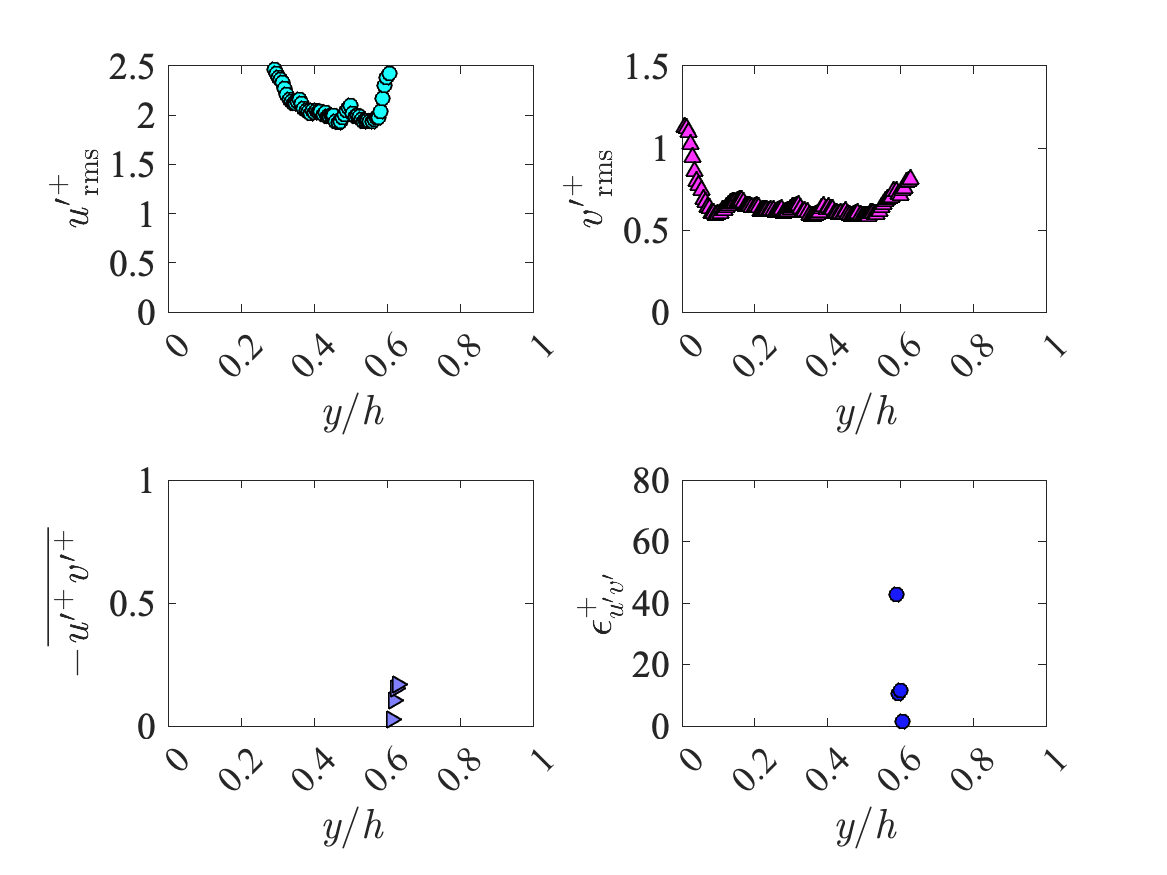
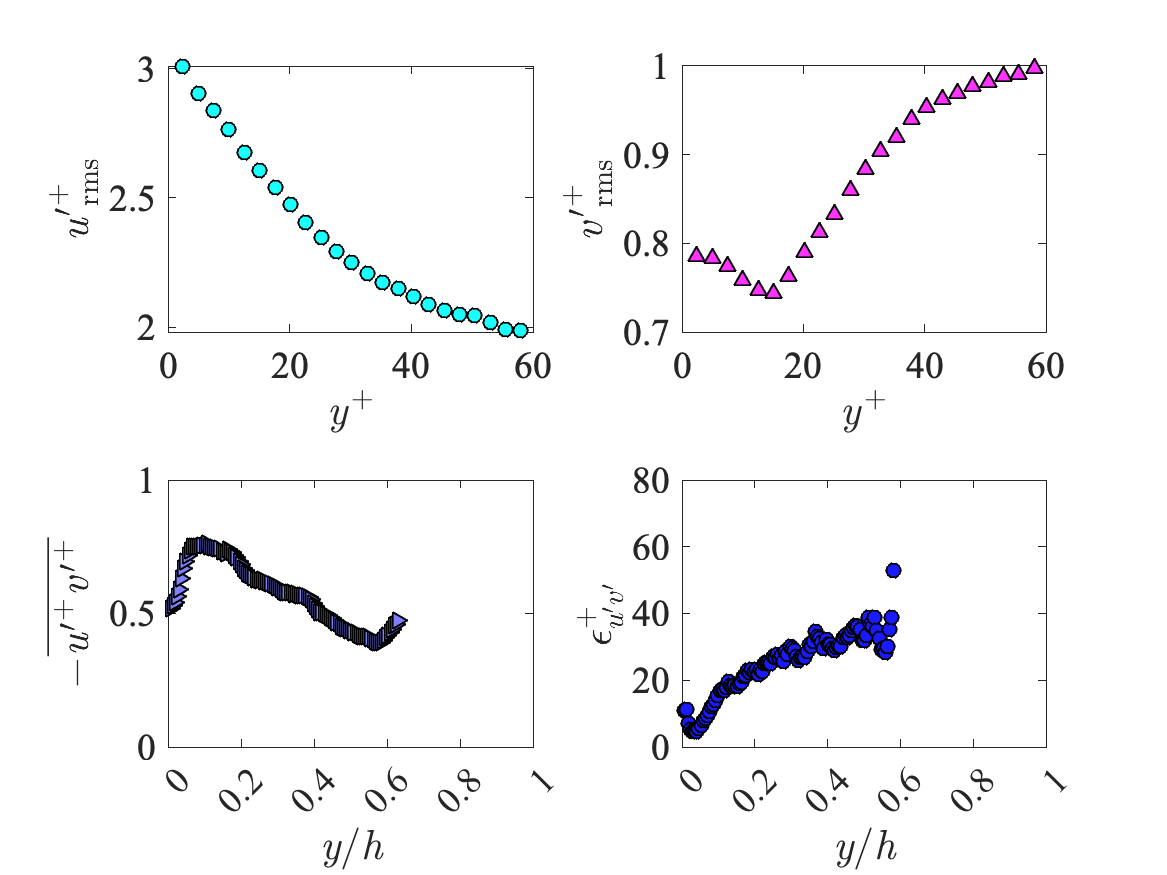
軸を無次元化

diff --git a/itoi/PIV_assignment/water_algo.m b/itoi/PIV_assignment/water_algo.m
@@ -221,31 +221,31 @@ for k =0:numfiles-1
     % end
     % レイノルズ剪断応力の瞬時場
     % if k < 15
-    if k == 6 || k == 8|| k == 14
-        [cc_water_ReStress,hc_water_ReStress]=contourf(xq*ut/vis,yq*ut/vis,U_dash_times_V_dash/(ut*ut),16);                   % making isoline
-        hc_water_ReStress.TextStep = 0.4;                                                  % interval isoline
-        hc_water_ReStress.ShowText = 'off';                                                % isoline text off
-        colormap('jet');                                                    % color type of 'jet'
-        box on;                                                             % making flame of figure
-        xlim([0 150]);                                                       % range of x
-        ylim([0 60]);                                                     % range of y
-        set( gca, 'FontName','Times','FontSize',18);                        % font and its size of axes 
-        ax = gca;
-        ax.TickLength = [0.02 0.1];                                         % scale size to inside from flame
-        xlabel('${\it x^+}$','FontSize',20,'Interpreter','latex');           % xlabel, its size, and type
-        ylabel('${\it y^+}$','FontSize',20,'Interpreter','latex');           % ylabel, its size, and type
-        c = colorbar;                                                       % making color bar
-        % c.Limits = [-0.4 0.4];                                                 % range of colorbar
-        c.Limits = [-5 15];                                                 % range of colorbar
-        c.FontSize = 18;                                                    % font size of scale of color bar
-        c.TickLabelInterpreter = 'latex';                                   % font type of scale of color bar
-        c.Label.Interpreter = 'latex';                                      % font type of label of color bar
-        c.Label.String = '$$-\overline{{\it u^\prime}^+{\it v^\prime}^+}$$';                % label of color bar
-        c.Label.FontSize = 20;                                              % font size of label of color bar
-        fig_name = sprintf('Re_stress%d',k);
-        saveas(gcf,fig_name ,'png'); 
-        % saveas(gcf,'fig' ,'png'); 
-    end      
+    % if k == 6 || k == 8|| k == 14
+    %     [cc_water_ReStress,hc_water_ReStress]=contourf(xq*ut/vis,yq*ut/vis,U_dash_times_V_dash/(ut*ut),16);                   % making isoline
+    %     hc_water_ReStress.TextStep = 0.4;                                                  % interval isoline
+    %     hc_water_ReStress.ShowText = 'off';                                                % isoline text off
+    %     colormap('jet');                                                    % color type of 'jet'
+    %     box on;                                                             % making flame of figure
+    %     xlim([0 150]);                                                       % range of x
+    %     ylim([0 60]);                                                     % range of y
+    %     set( gca, 'FontName','Times','FontSize',18);                        % font and its size of axes 
+    %     ax = gca;
+    %     ax.TickLength = [0.02 0.1];                                         % scale size to inside from flame
+    %     xlabel('${\it x^+}$','FontSize',20,'Interpreter','latex');           % xlabel, its size, and type
+    %     ylabel('${\it y^+}$','FontSize',20,'Interpreter','latex');           % ylabel, its size, and type
+    %     c = colorbar;                                                       % making color bar
+    %     % c.Limits = [-0.4 0.4];                                                 % range of colorbar
+    %     c.Limits = [-5 15];                                                 % range of colorbar
+    %     c.FontSize = 18;                                                    % font size of scale of color bar
+    %     c.TickLabelInterpreter = 'latex';                                   % font type of scale of color bar
+    %     c.Label.Interpreter = 'latex';                                      % font type of label of color bar
+    %     c.Label.String = '$$-\overline{{\it u^\prime}^+{\it v^\prime}^+}$$';                % label of color bar
+    %     c.Label.FontSize = 20;                                              % font size of label of color bar
+    %     fig_name = sprintf('Re_stress%d',k);
+    %     saveas(gcf,fig_name ,'png'); 
+    %     % saveas(gcf,'fig' ,'png'); 
+    % end      
 
     % % skewness(歪度)を算出
     % if k == 6 || k == 7 || k == 8|| k == 14
@@ -301,39 +301,45 @@ end
 % 1D-figure
 figure;
 subplot(2,2,1);
-p = plot(x(1:n,1,2)/h,uus(:,1)/ut,'ko');
+% p = plot(x(1:n,1,2)/h,uus(:,1)/ut,'ko');
+p = plot(x(1:n,1,2)*ut/vis,uus(:,1)/ut,'ko');
 p.LineWidth = 1.2;
 p.MarkerSize = 7;
 p.MarkerEdgeColor = 'black';
 p.MarkerFaceColor = [0.1 1 1];
 box on;
 %axis equal tight;                                                 
-xticks([0:0.2:1]);
-yticks([0:0.5:2.5]);
-xlim([0 1]);
-ylim([0 2.5]);
+% xticks([0:0.2:1]);
+% yticks([0:0.5:2.5]);
+% xlim([0 1]);
+xlim([0 60]); 
+% ylim([0 2.5]);
 set( gca, 'FontName','Times','FontSize',18); 
 ax = gca;
 ax.TickLength = [0.02 0.1];
-xlabel('{\it y}/{\it h}','FontSize',20,'Interpreter','latex');
+% xlabel('{\it y}/{\it h}','FontSize',20,'Interpreter','latex');
+xlabel('$${\it y^+}$$','FontSize',20,'Interpreter','latex');
 ylabel('$${\it u^\prime}_{{\rm rms}}^+$$','FontSize',20,'Interpreter','latex');
 % 
 subplot(2,2,2);
-p = plot(x(1:n,1,2)/h,uus(:,2)/ut,'k^');
+% p = plot(x(1:n,1,2)/h,uus(:,2)/ut,'k^');
+p = plot(x(1:n,1,2)*ut/vis,uus(:,2)/ut,'k^');
 p.LineWidth = 1.2;
 p.MarkerSize = 7;
 p.MarkerEdgeColor = 'black';
 p.MarkerFaceColor = [1 0.2 1];
 box on;
 %axis equal tight;                                                 
-xticks([0:0.2:1]);
-yticks([0:0.5:1.5]);
-xlim([0 1]);
-ylim([0 1.5]);
+% xticks([0:0.2:1]);
+% yticks([0:0.5:1.5]);
+% xlim([0 1]);
+xlim([0 60]); 
+% ylim([0 1.5]);
 set( gca, 'FontName','Times','FontSize',18); 
 ax = gca;
 ax.TickLength = [0.02 0.1];
-xlabel('{\it y}/{\it h}','FontSize',20,'Interpreter','latex');
+% xlabel('{\it y}/{\it h}','FontSize',20,'Interpreter','latex');
+xlabel('$${\it y^+}$$','FontSize',20,'Interpreter','latex');
 ylabel('$${\it v^\prime}_{{\rm rms}}^+$$','FontSize',20,'Interpreter','latex');
 % 
 subplot(2,2,3);
